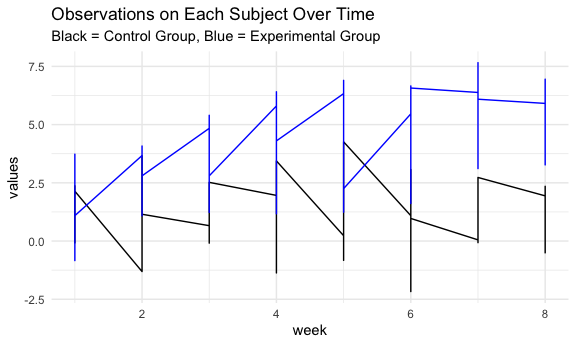
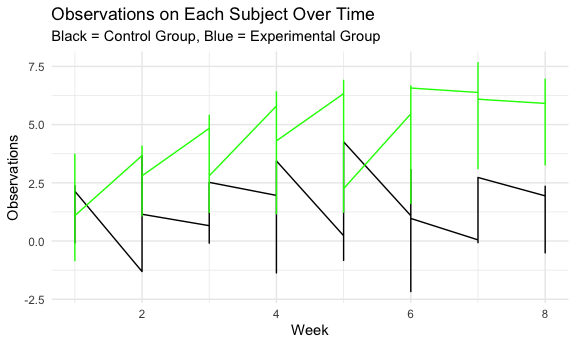
Final commit

diff --git a/p8105_hw5_sb4328.md b/p8105_hw5_sb4328.md
@@ -4,6 +4,50 @@ Sanjana Batabyal
 
 This is my solution to Homework 5.
 
+``` r
+library(tidyverse)
+```
+
+    ## ── Attaching packages ─────────────────────────────────────── tidyverse 1.3.0 ──
+
+    ## ✓ ggplot2 3.3.2     ✓ purrr   0.3.4
+    ## ✓ tibble  3.0.4     ✓ dplyr   1.0.2
+    ## ✓ tidyr   1.1.2     ✓ stringr 1.4.0
+    ## ✓ readr   1.4.0     ✓ forcats 0.5.0
+
+    ## ── Conflicts ────────────────────────────────────────── tidyverse_conflicts() ──
+    ## x dplyr::filter() masks stats::filter()
+    ## x dplyr::lag()    masks stats::lag()
+
+``` r
+library(magrittr)
+```
+
+    ## 
+    ## Attaching package: 'magrittr'
+
+    ## The following object is masked from 'package:purrr':
+    ## 
+    ##     set_names
+
+    ## The following object is masked from 'package:tidyr':
+    ## 
+    ##     extract
+
+``` r
+library(dplyr)
+library(ggplot2)
+knitr::opts_chunk$set(fig.width = 6,
+  fig.asp = .6,
+  out.width = "90%")
+theme_set(theme_minimal() + theme(legend.position = "bottom"))
+options(ggplot2.continuous.colour = "viridis",
+  ggplot2.continuous.fill = "viridis")
+scale_colour_discrete = scale_color_viridis_d
+scale_fill_discrete = scale_fill_viridis_d
+set.seed(1)
+```
+
 ## Problem 1
 
 Getting the data from the csv file downloaded from GitHub. Cleaning the
@@ -13,13 +57,11 @@ variable.
 ``` r
 homicide=
   read_csv("data/homicide-data.csv") %>%
-  mutate(
-    city_state=str_c(city, state, sep="_"),
+  mutate(city_state=str_c(city, state, sep="_"),
     resolved=case_when(
     disposition=="Closed without arrest" ~ "unsolved",
     disposition=="Closed by arrest" ~ "solved",
-    disposition=="Open/No arrest" ~ "unsolved")
-  ) %>%
+    disposition=="Open/No arrest" ~ "unsolved")) %>%
   select(city_state, resolved) %>%
   filter(city_state != "Tulsa_AL")
 ```
@@ -114,25 +156,20 @@ arms.
 ``` r
 p2data=
   tibble(
-    path=list.files("p2data")
-  ) %>%  
+    path=list.files("p2data")) %>%  
   mutate(
     path1=str_c("p2data/", path),
-    data=map(path1, read_csv)
-    ) %>% 
+    data=map(path1, read_csv)) %>% 
   unnest(data) %>%
   separate(
     path1,
-    into = c(NA, "Arm", "Arm_Num", NA)
-  ) %>%
+    into = c(NA, "Arm", "Arm_Num", NA)) %>%
   pivot_longer(
     starts_with("week"),
     names_to = "week",
-    values_to = "values"
-  ) %>%
+    values_to = "values") %>%
   mutate(
-    week = as.numeric(sub("week_", "", week))
-  )
+    week = as.numeric(sub("week_", "", week)))
 ```
 
     ## 
@@ -412,14 +449,144 @@ time.
 ``` r
 spaghetti=ggplot(control, aes(x=week, y=values, group=Arm)) +
   geom_line() + 
-  geom_line(data=experiment, color="blue")
+  geom_line(data=experiment, color="green")
 
 spaghetti + 
-  labs(
-    title="Observations on Each Subject Over Time",
+  labs(title="Observations on Each Subject Over Time",
     subtitle="Black = Control Group, Blue = Experimental Group",
-    xlab="Week",
-    ylab="Observations")
+    x="Week",
+    y="Observations")
 ```
 
 <img src="p8105_hw5_sb4328_files/figure-gfm/unnamed-chunk-7-1.png" width="90%" />
+Looking at the control group (colored in black), we see that their
+scores tend to go down throughout the week while the experimental group
+(colored in green) has scores that increase throughout the week. The
+range of scores is more stable among the control group than the
+experimental group, but they do have opposite trends.
+
+\#\#Problem 3 Setting up the simulation, generating 5000 datasets from
+the model, creating an iteration for mu=1-6, and then creating a
+sub-dataset that includes when the null was rejected and when we failed
+to reject it.
+
+``` r
+p3sim_setup=function(n=30, mu, sigma=5)
+{input_sim = 
+  tibble(
+  x=rnorm(n=30, mean=mu, sd=5)) %>%
+    t.test() %>%
+    broom::tidy()}
+
+p3sim_1= 
+  rerun(5000, p3sim_setup(n=30, mu=0, sigma=5)) %>% 
+  bind_rows()
+
+p3sim= 
+  tibble(
+  mu=c(0, 1, 2, 3, 4, 5, 6)) %>% 
+  mutate(
+    output=map(.x=mu, ~ rerun(5000, 
+    p3sim_setup(n=30, mu = .x, sigma=5))),
+    results = map(output, bind_rows)) %>% 
+  select(-output) %>%
+  unnest(results) %>% 
+  select(mu, estimate, p.value) %>% 
+  mutate(
+    null_outcome=case_when(
+      p.value <= 0.05~"Rejected",
+      p.value > 0.05~"Fail to Reject"))
+```
+
+Creating a plot showing the proportion of times the null was rejected
+(the power of the test) on the y axis and the true value of μ on the x
+axis.
+
+``` r
+p3sim_reject=
+  p3sim%>% 
+  group_by(mu, null_outcome) %>% 
+  filter(null_outcome=="Rejected") %>% 
+  summarize(total=n()) %>% 
+  mutate(prop=total/5000) 
+```
+
+    ## `summarise()` regrouping output by 'mu' (override with `.groups` argument)
+
+``` r
+p3sim_reject %>% 
+  ggplot(aes(x=mu, y=prop)) +
+  geom_point() + geom_smooth() +
+  labs(title="Problem 3 Plot 1",
+    subtitle="Null Rejection Proportion",
+    x="True Value of Mu",
+    y="Null Hypothesis: Rejected (Proportion)")
+```
+
+    ## `geom_smooth()` using method = 'loess' and formula 'y ~ x'
+
+<img src="p8105_hw5_sb4328_files/figure-gfm/unnamed-chunk-9-1.png" width="90%" />
+We see here that as the true value of mu, or effect size, increases, the
+proportion of times the null hypothesis was rejected, or power, also
+increases. This makes sense because we know that a larger effect size
+contributes to larger power. However, this is not an infinitely positive
+relationship; we see that power levels off at 1 and this also makes
+sense because the greatest value power can be is 1.
+
+Making a plot showing the average estimate of μ̂ on the y axis and the
+true value of μ on the x axis.
+
+``` r
+p3sim_average=
+  p3sim%>% 
+  group_by(mu) %>% 
+  filter(null_outcome=="Rejected") %>% 
+  summarize(average=mean(estimate)) 
+```
+
+    ## `summarise()` ungrouping output (override with `.groups` argument)
+
+``` r
+p3sim_average %>% 
+  ggplot(aes(x=mu, y=average)) +
+  geom_point() + geom_smooth() +
+  labs(title="Problem 3 Plot 2a",
+    subtitle="Average vs. True Value of Mu",
+    x="True Value of Mu",
+    y="Average Estimate of Mu")
+```
+
+    ## `geom_smooth()` using method = 'loess' and formula 'y ~ x'
+
+<img src="p8105_hw5_sb4328_files/figure-gfm/unnamed-chunk-10-1.png" width="90%" />
+Making a plot of average estimate of μ̂ only in samples for which the
+null was rejected on the y axis and the true value of μ on the x axis.
+
+``` r
+p3sim_average2=
+  p3sim%>% 
+  group_by(mu) %>% 
+  filter(null_outcome=="Rejected") %>% 
+  summarize(average2=mean(estimate))
+```
+
+    ## `summarise()` ungrouping output (override with `.groups` argument)
+
+``` r
+p3sim_average2 %>% 
+  ggplot(aes(x=mu, y=average2)) +
+  geom_point() + geom_smooth() +
+  labs(title="Problem 3 Plot 2b",
+    subtitle="Average vs. True Value of Mu (Among Samples with Rejected Null",
+    x="True Value of Mu",
+    y="Average Estimate of Mu")
+```
+
+    ## `geom_smooth()` using method = 'loess' and formula 'y ~ x'
+
+<img src="p8105_hw5_sb4328_files/figure-gfm/unnamed-chunk-11-1.png" width="90%" />
+Looking at these two plots, we see that the sample average of mu across
+tests when the null hypothesis is rejected is approximately equal to the
+true value of mu. This makes sense because when you have a larger effect
+size, you have a higher power, and you are more likely to reject the
+null hypothesis (and the converse of this statement is true as well).
